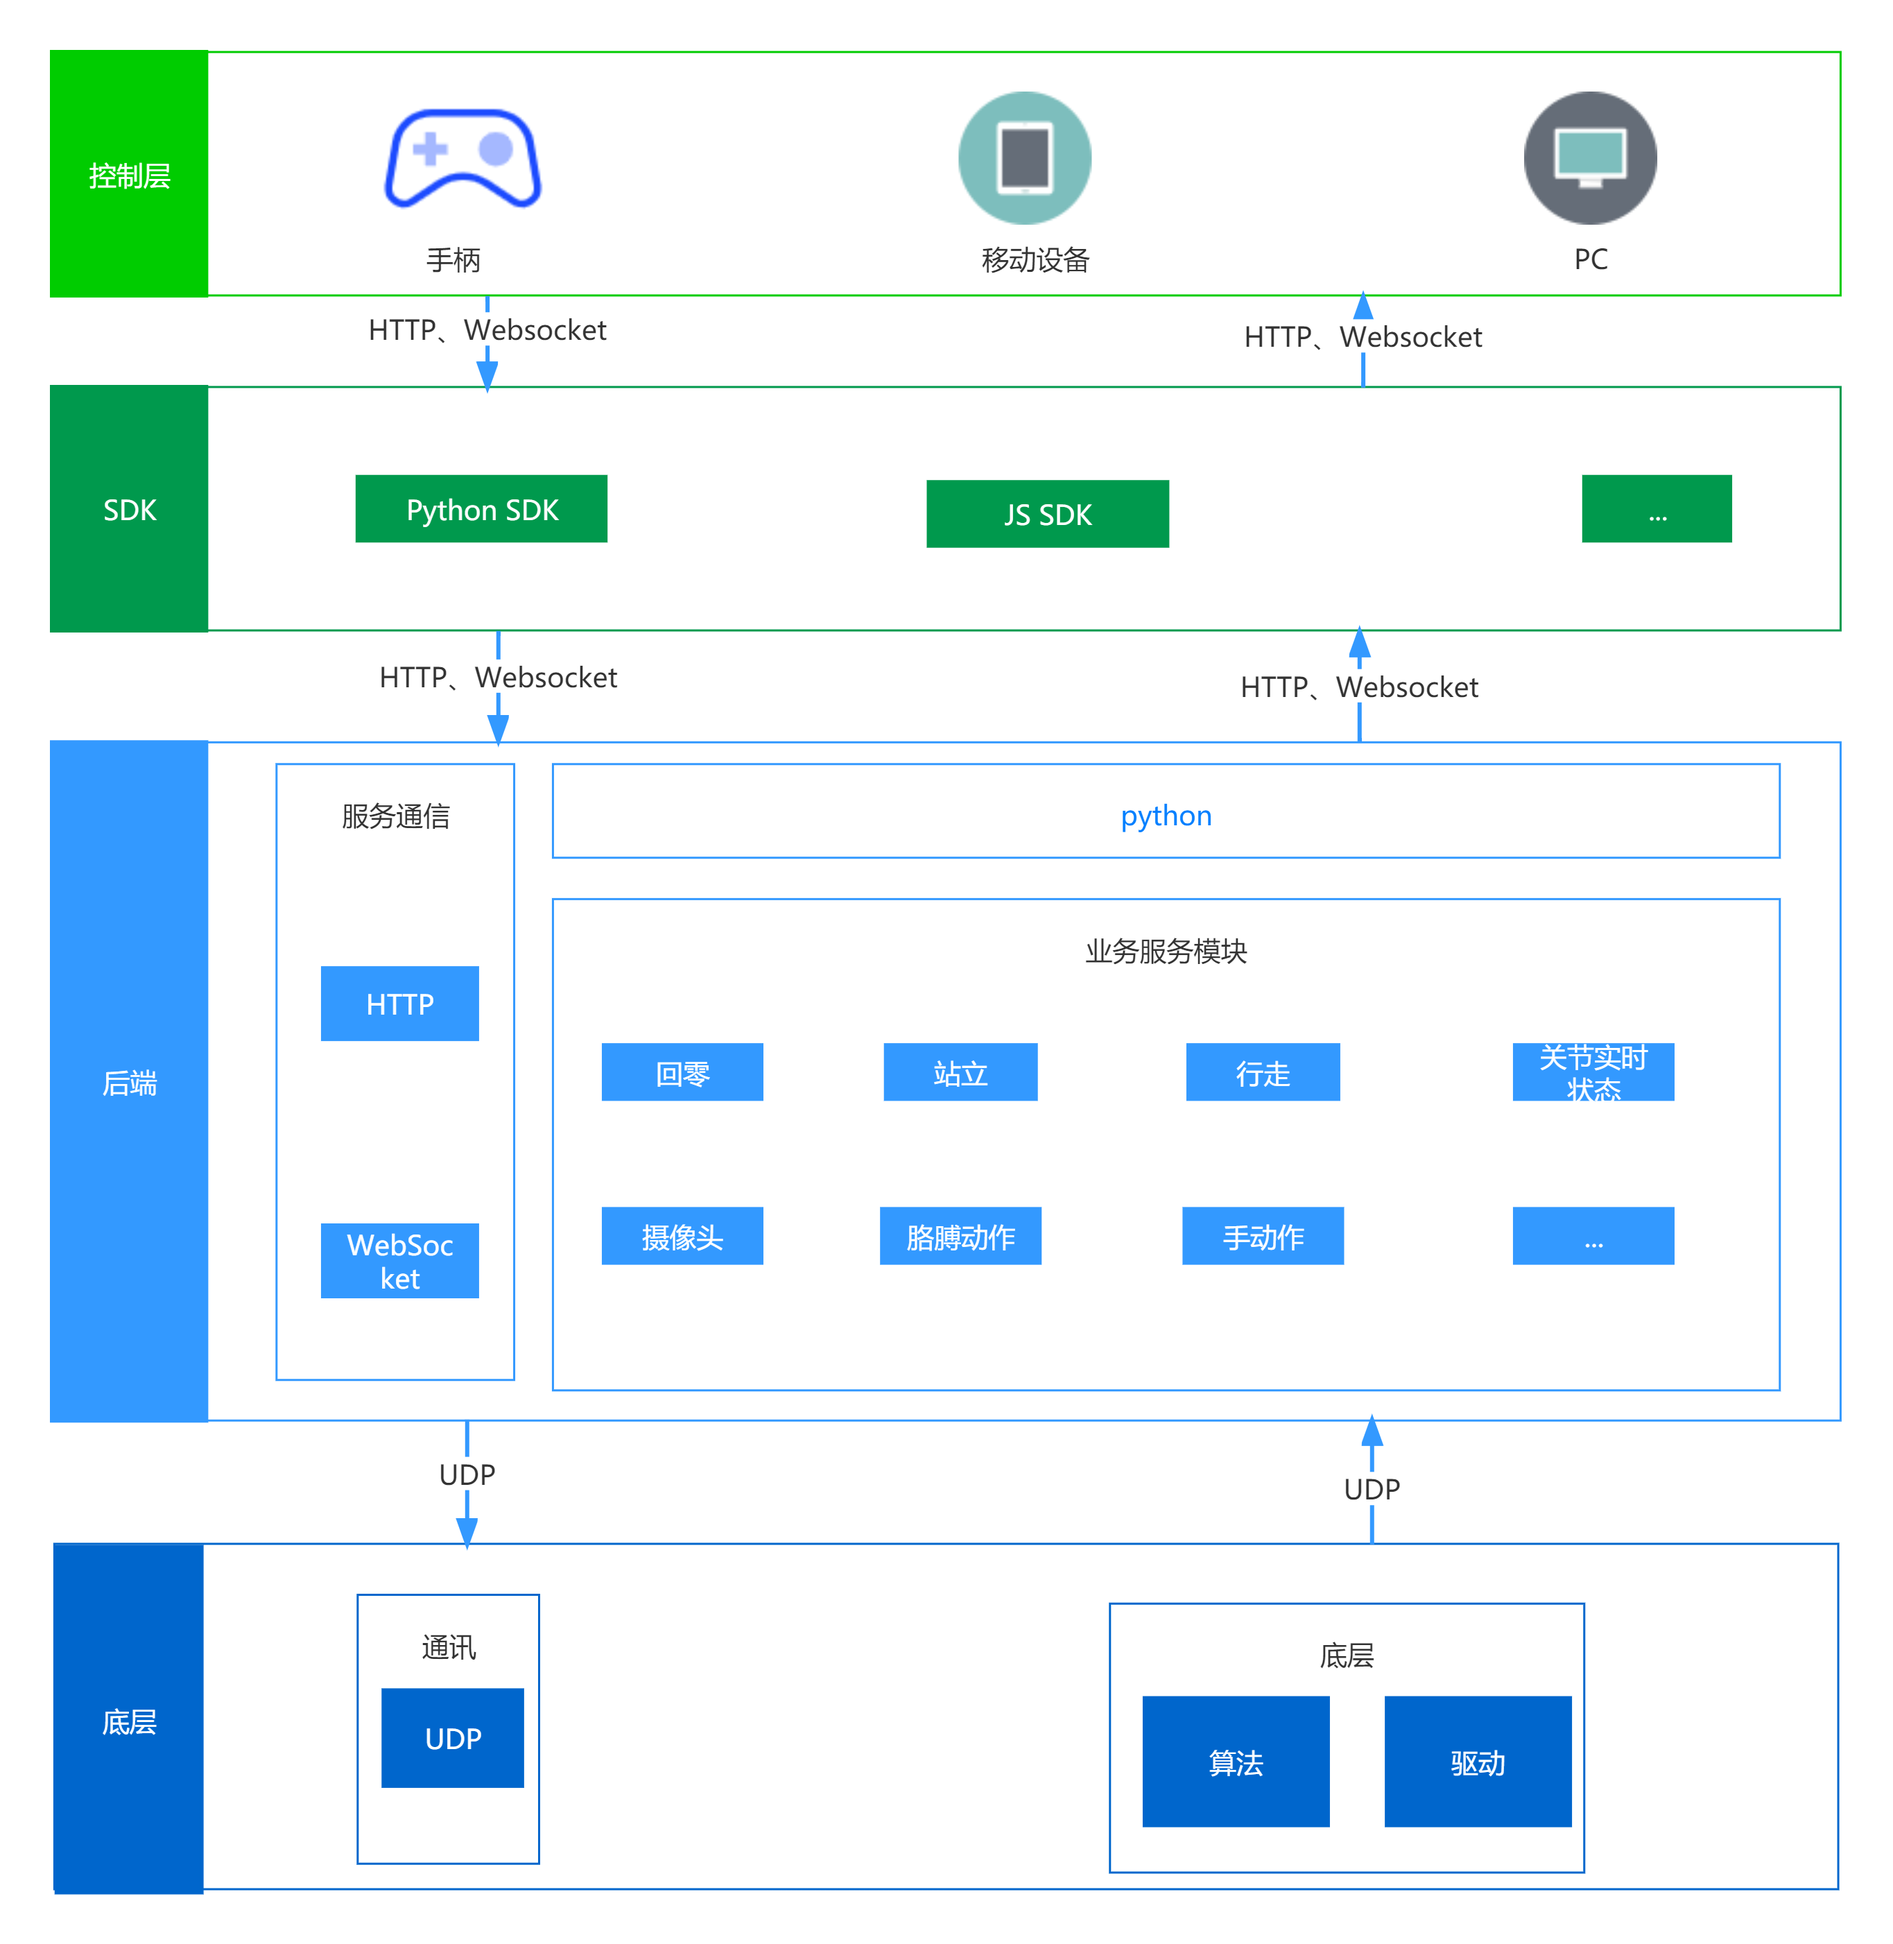
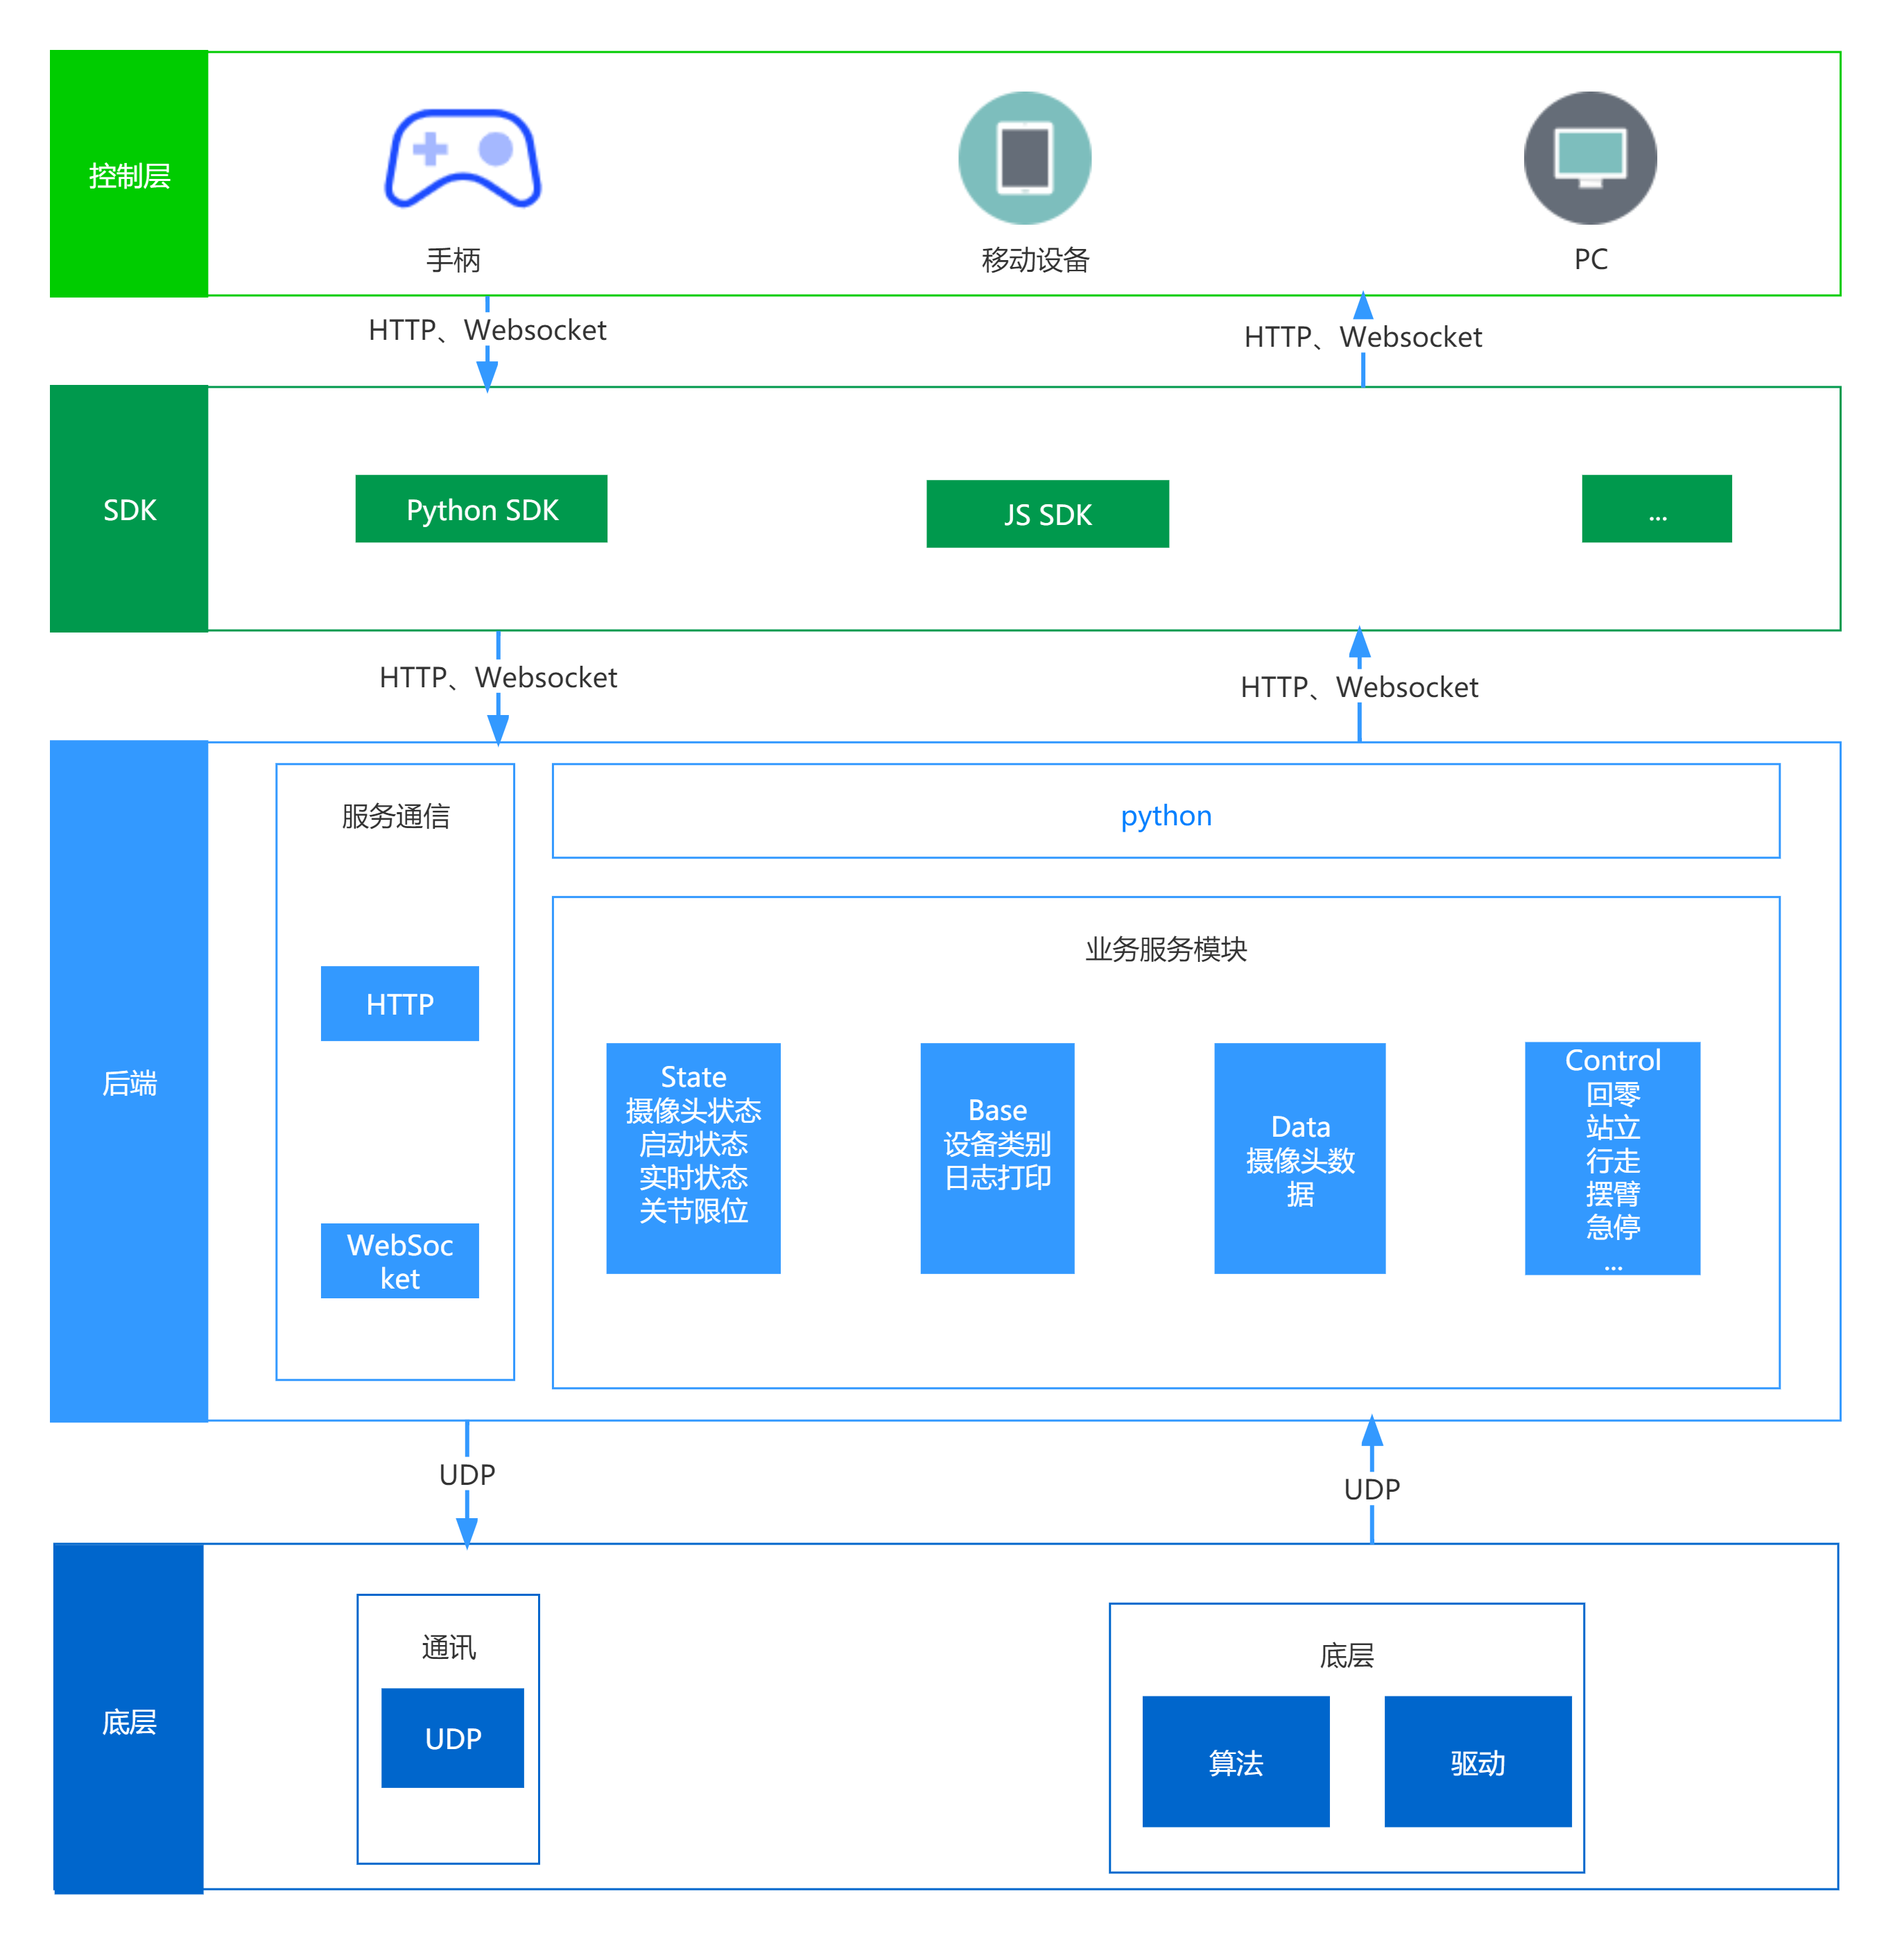
后端文档完善

diff --git a/docs/server_api/server_api.md b/docs/server_api/server_api.md
@@ -15,7 +15,7 @@ Base URLs:
 
 POST /robot/start
 
-机器人回零接口，入参为{}一个没有任何参数的json对象
+控制指令：机器人回零接口，入参为{}一个没有任何参数的json对象
 
 > Body 请求参数
 
@@ -61,7 +61,7 @@ POST /robot/start
 
 POST /robot/stand
 
-站立接口，站立时可以选择输入head和身体body参数，默认入参为{}一个没有任何参数的json对象即可
+控制指令：站立接口，站立时可以选择输入head和身体body参数，默认入参为{}一个没有任何参数的json对象即可
 
 > Body 请求参数
 
@@ -212,7 +212,7 @@ GET /robot/joint_limit
 
 POST /robot/stop
 
-命令优先于其他命令! 会掉电停止。请在紧急情况下触发
+控制指令：命令优先于其他命令! 会掉电停止。请在紧急情况下触发
 
 > 返回示例
 
@@ -405,7 +405,7 @@ GET /control/camera
 URL:
 >ws://127.0.0.1:8001/ws
 
-websocket长连接发送move指令
+控制指令：websocket长连接发送move指令
 
 > Body 请求参数
 
@@ -457,7 +457,7 @@ websocket长连接发送move指令
 URL:
 >ws /127.0.0.1:8001/ws
 
-websocket长连接发送头部指令
+控制指令：websocket长连接发送头部指令
 
 > Body 请求参数
 

diff --git a/docs/server_api/readme.md b/docs/server_api/readme.md
@@ -11,9 +11,7 @@
 ## 硬件准备
 
 * 傅利叶GR-1机器人
-
 * 发送控制指令的PC电脑
-
 * 用于提供同一局域网的路由器
 
 ## 软件准备
@@ -39,6 +37,7 @@
 * 打开PostMan
 * URL输入框输入http://[机器人IP]:8001/robot/type
 * 点击 Send 按钮，可以收到后端API返回Json格式的响应数据
+* 如果调用控制指令接口如/robot/start、/robot/stand等，可以看到真机或者仿真机器人做出响应的动作
 ![postMan.jpg](pics/down_postman.png)
 ![postMan.jpg](pics/api_send.png)
 
@@ -57,6 +56,7 @@
     ![apifox_example](pics/fill_api_info.png)
     * 发送请求，查看响应数据
     ![apifox_example](pics/send_request.png)
+    * 如果调用控制指令接口如/robot/start、/robot/stand等，可以看到真机或者仿真机器人做出响应的动作
 * webocket接口操作
     * 添加Websocket接口
     ![apifox_example](pics/create_websocket.png)
@@ -67,3 +67,4 @@
     ![apifox_example](pics/connect_websocket.png)
     * 发送请求报文数据
     ![apifox_example](pics/send_websocket.png)
+    * 如果调用控制指令接口如/robot/start、/robot/stand等，可以看到真机或者仿真机器人做出响应的动作
